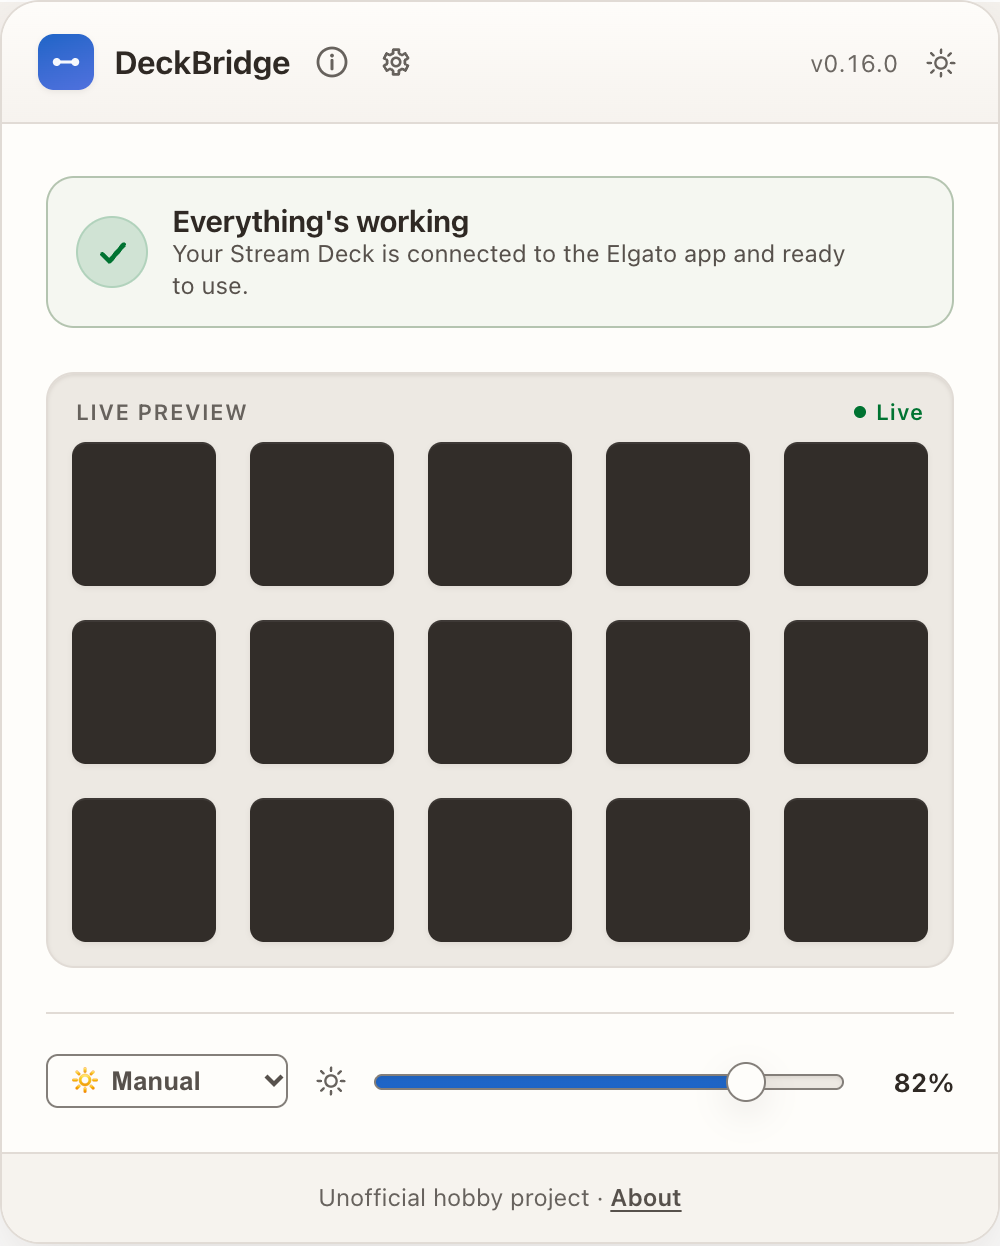
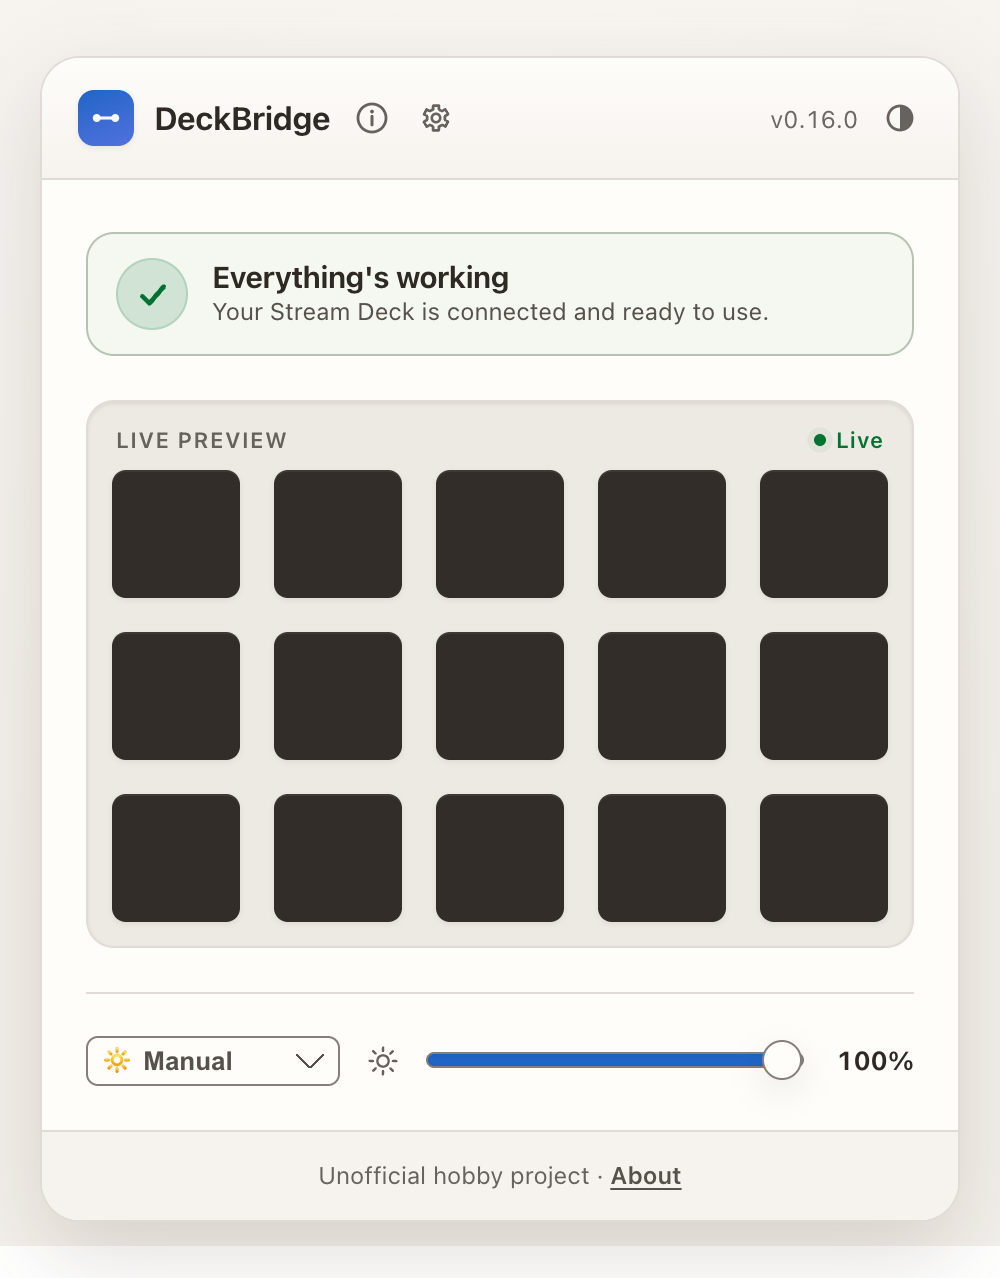
fix(web-client): correct select dropdown arrow position (#144)
Custom arrow was offset wrong on select.input; also regenerate docs screenshots reflecting the fix.

diff --git a/ts/src/web/client/ui-simple.css b/ts/src/web/client/ui-simple.css
@@ -1997,8 +1997,8 @@ select.input.xkey-select {
     linear-gradient(135deg, transparent 43%, currentColor 43% 57%, transparent 57%);
   background-size: 7px 7px;
   background-position:
-    calc(100% - 21px) center,
-    calc(100% - 14px) center;
+    calc(100% - 14px) center,
+    calc(100% - 7px) center;
   background-repeat: no-repeat;
 }
 
